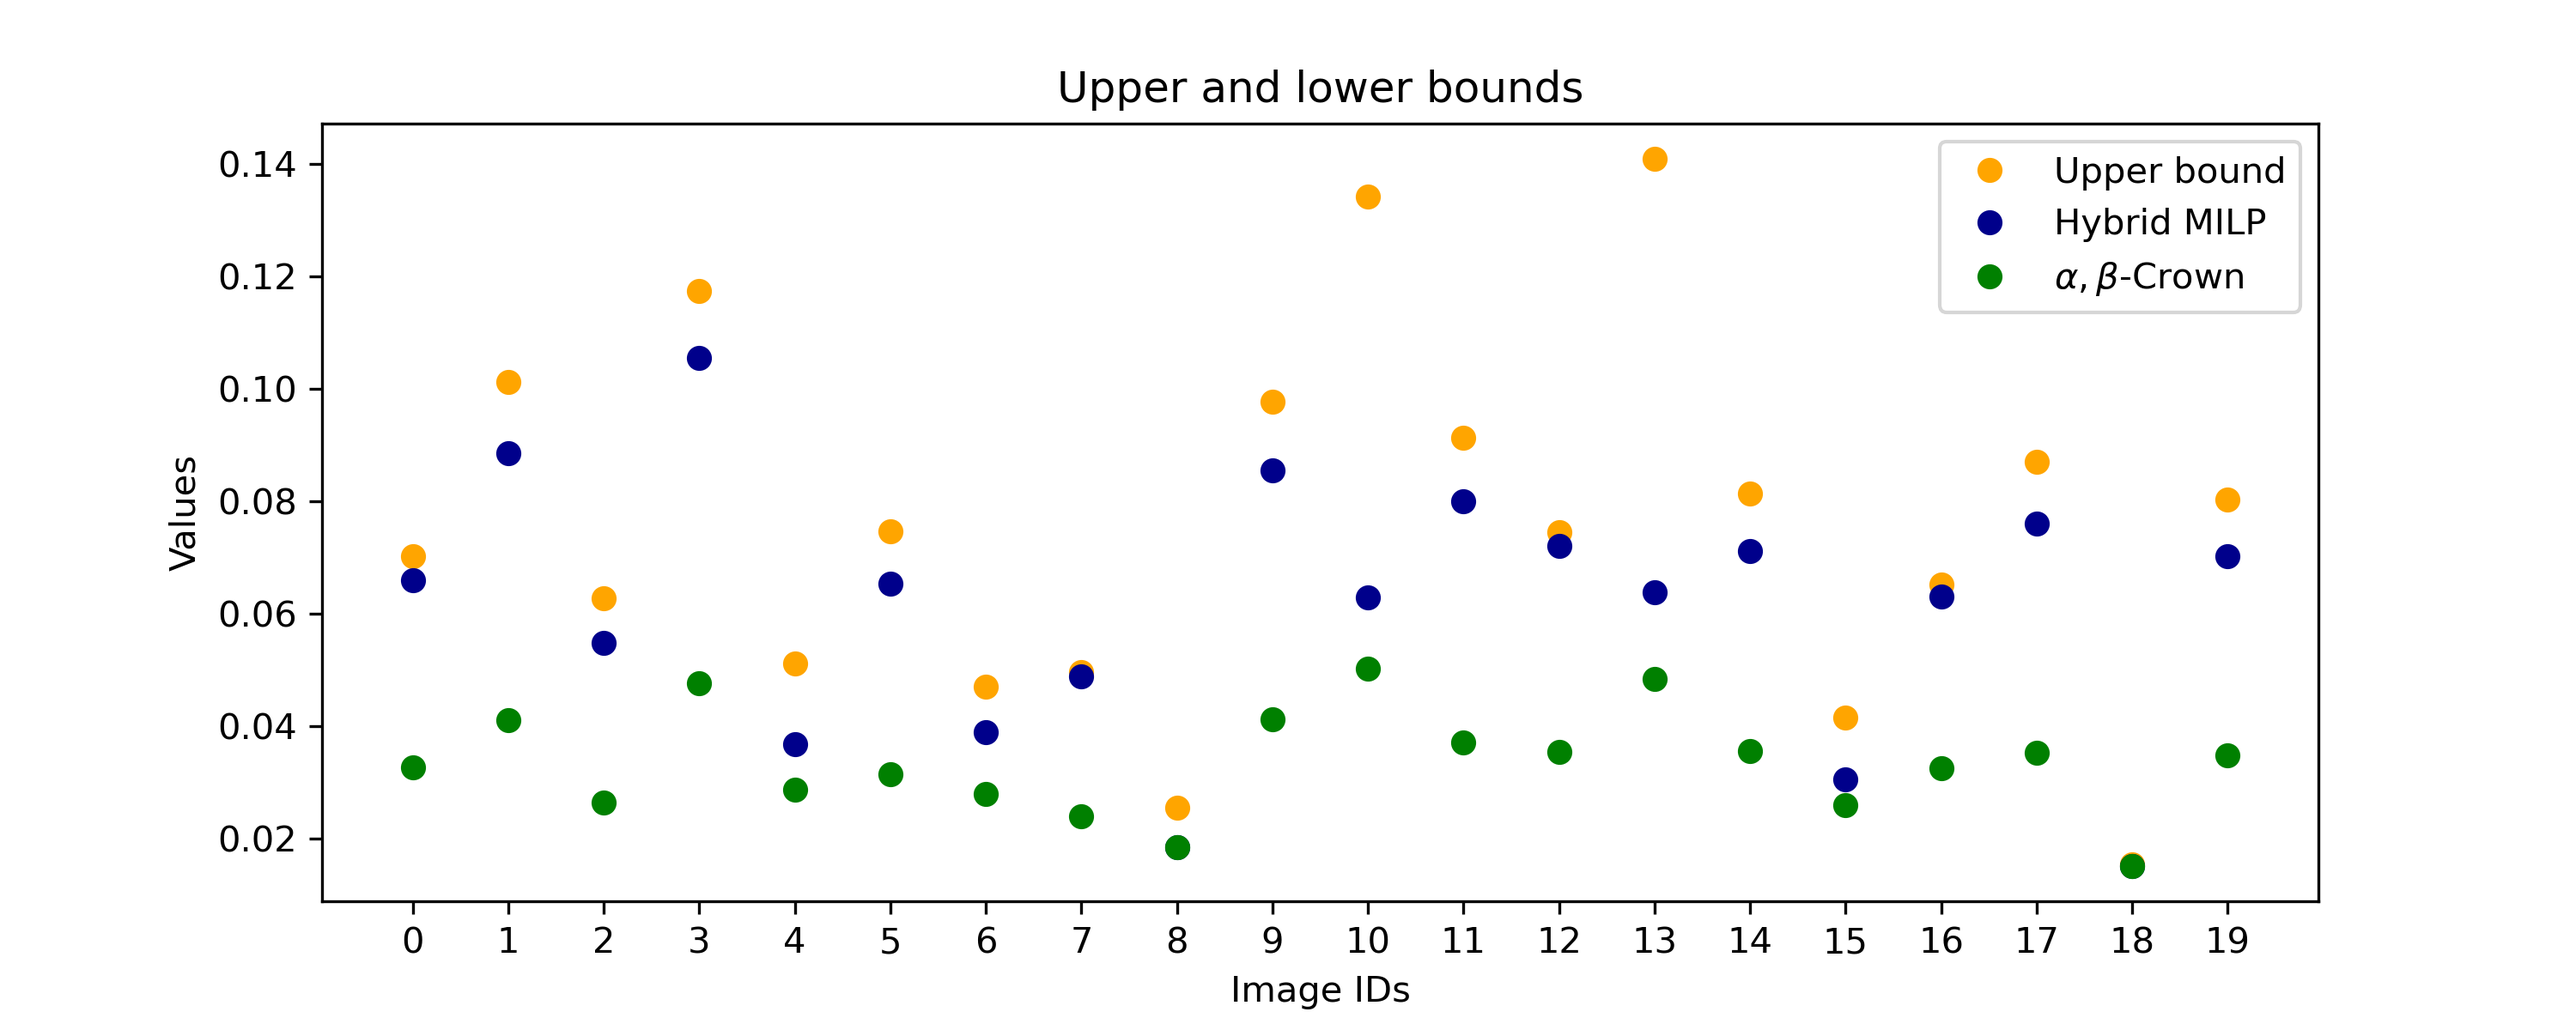
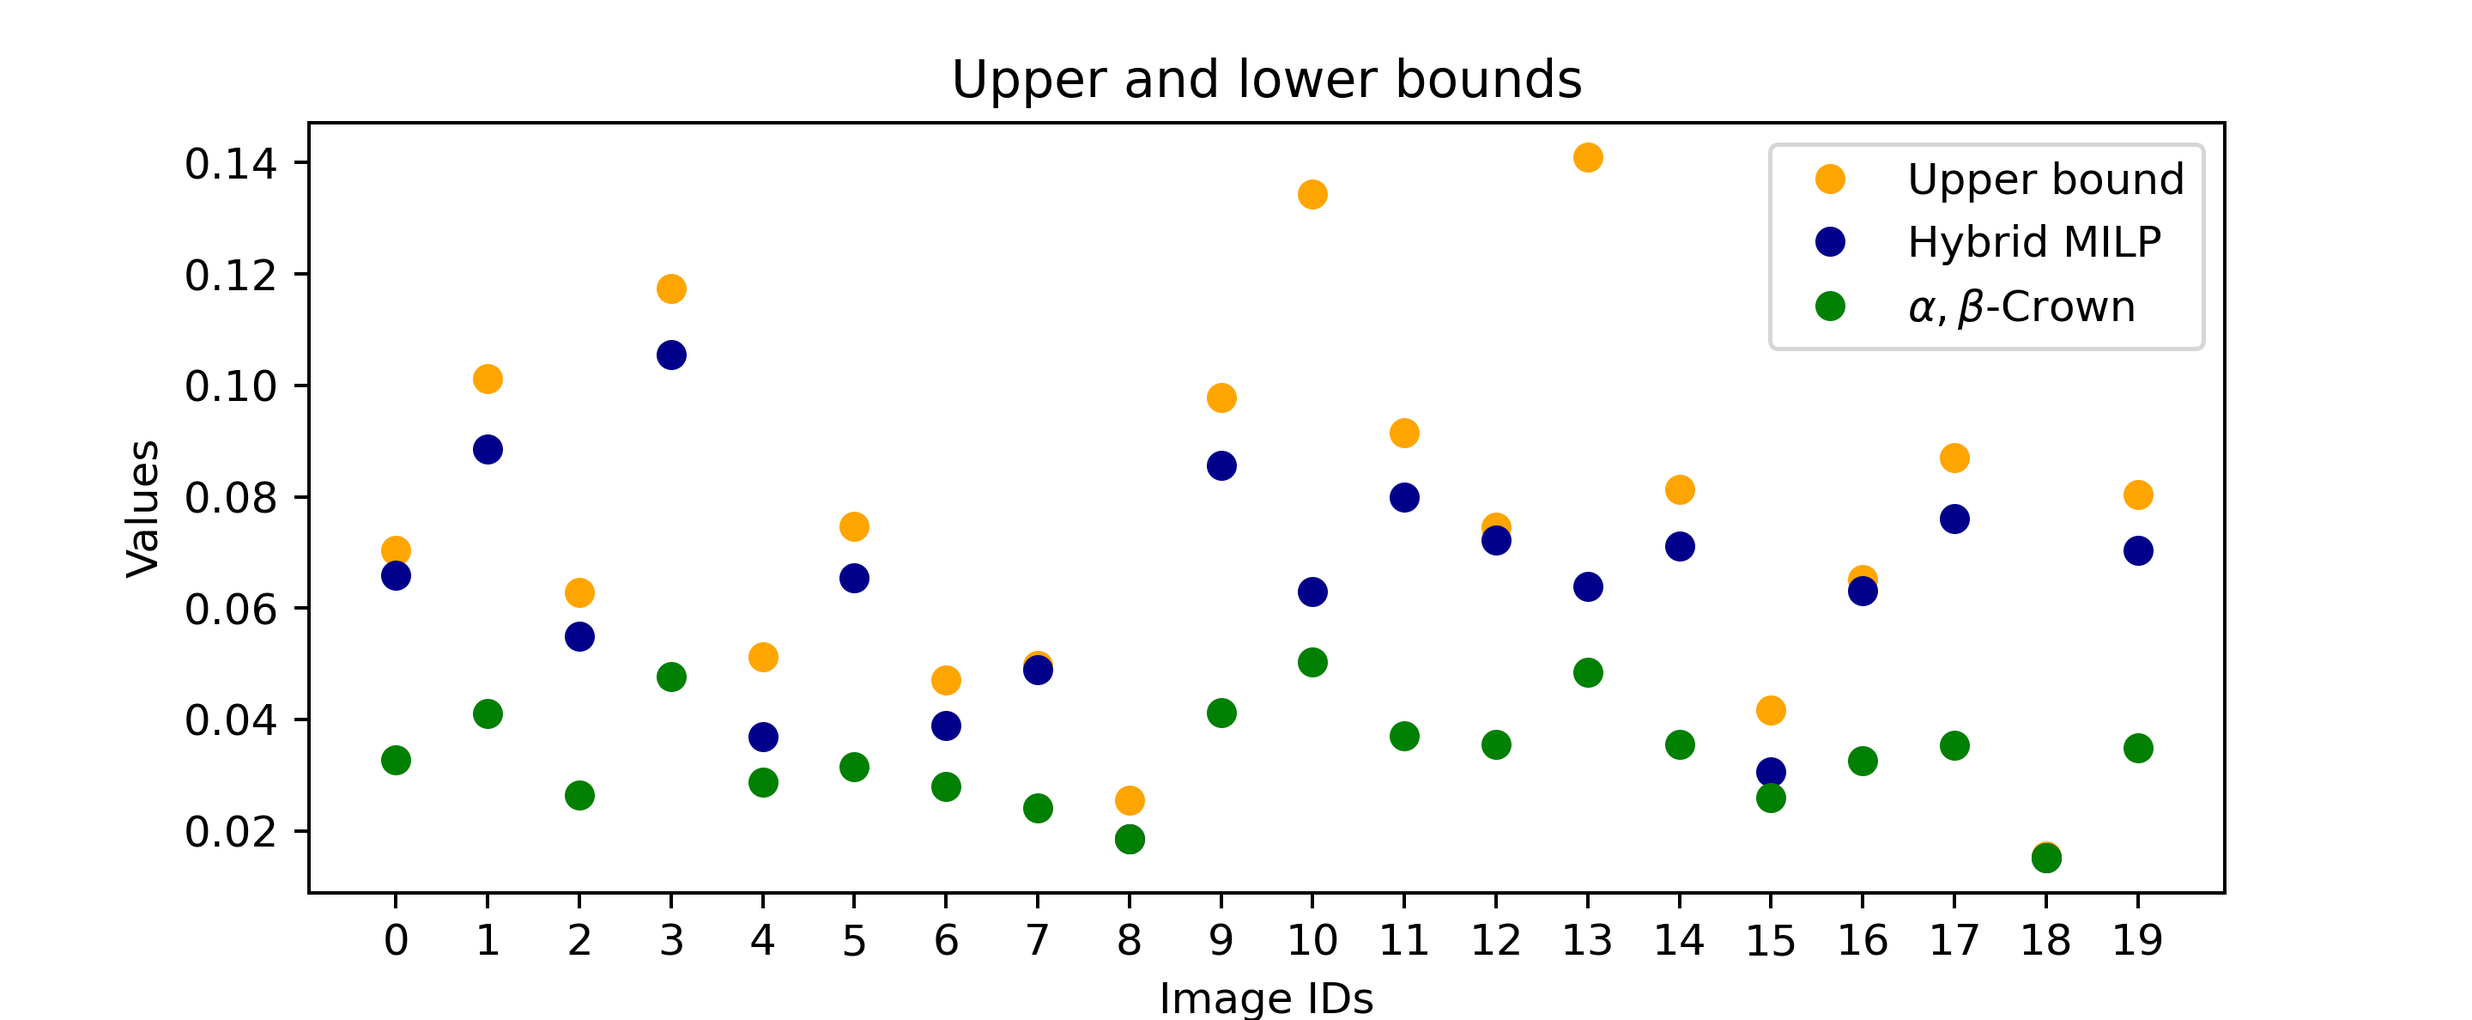
update plots

diff --git a/ICLR25/experiments.tex b/ICLR25/experiments.tex
@@ -201,7 +201,7 @@ We report the results (upper bound, best bound verified by $\alpha,\beta$-Crown 
 
 \begin{figure}[t!]
 	\begin{centering}
-\includegraphics[scale=0.5]{epsilon.png}.
+\includegraphics[scale=0.6]{epsilon.png}.
 \caption{$\epsilon$-robustness proved after $10 000s$ for $6 \times 500$ on each of the 20 first images of MNIST.}
 \label{fig2}
 	\end{centering}
